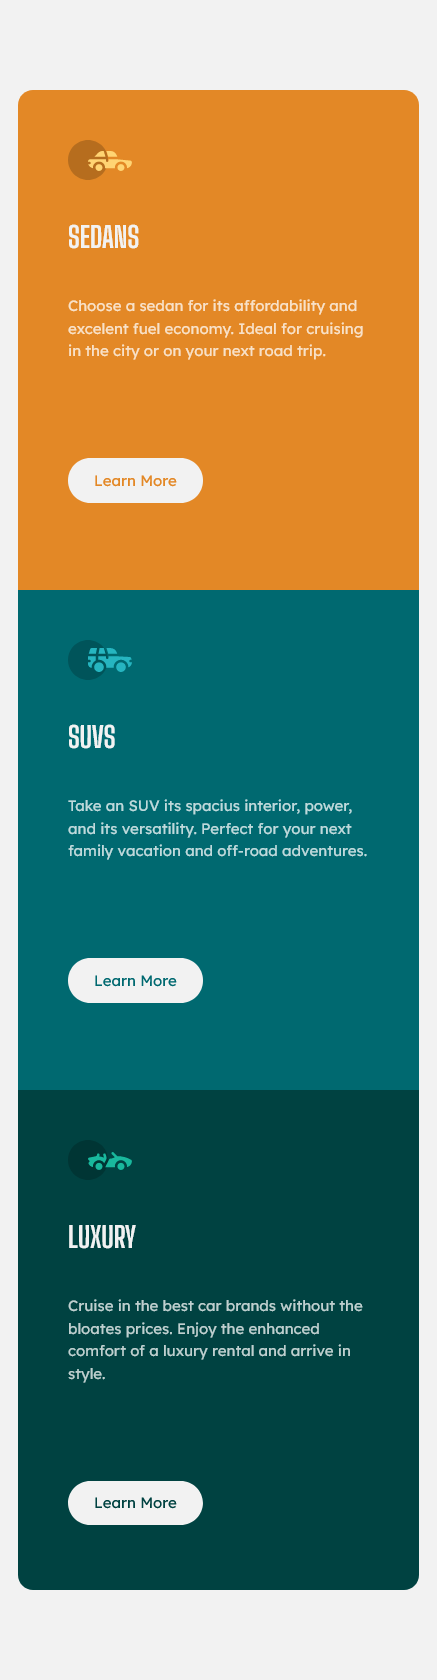
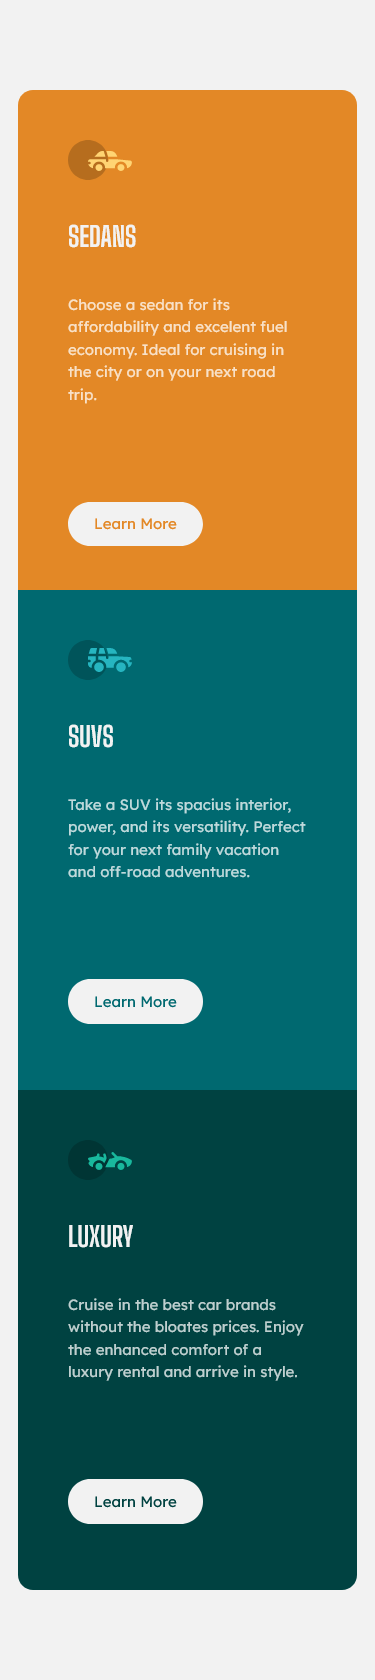
Editing screenshoot

diff --git a/index.html b/index.html
@@ -38,7 +38,7 @@
             <div class="col-lg-3 bg-suvs">
                 <img src="src/img/icon-suvs.svg" alt="icon-suvs">
                 <h1>SUVS</h1>
-                <p>Take an SUV its spacius interior, power, and its versatility. Perfect for your next family vacation
+                <p>Take a SUV its spacius interior, power, and its versatility. Perfect for your next family vacation
                     and off-road adventures.</p>
                 <button class="btn my-btn suvs">Learn More</button>
             </div>

diff --git a/src/css/style.css b/src/css/style.css
@@ -50,7 +50,7 @@ body {
  background-color: hsl(31, 77%, 52%);
  padding-left: 50px;
  padding-top: 50px;
- padding-right: 40px;
+ padding-right: 50px;
 }
 
 .bg-suvs {
@@ -58,14 +58,14 @@ body {
  background-color: hsl(184, 100%, 22%);
  padding-left: 50px;
  padding-top: 50px;
- padding-right: 40px;
+ padding-right: 50px;
 }
 .bg-luxury {
  height: 500px;
  background-color: hsl(179, 100%, 13%);
  padding-left: 50px;
  padding-top: 50px;
- padding-right: 40px;
+ padding-right: 50px;
 }
 
 img {
